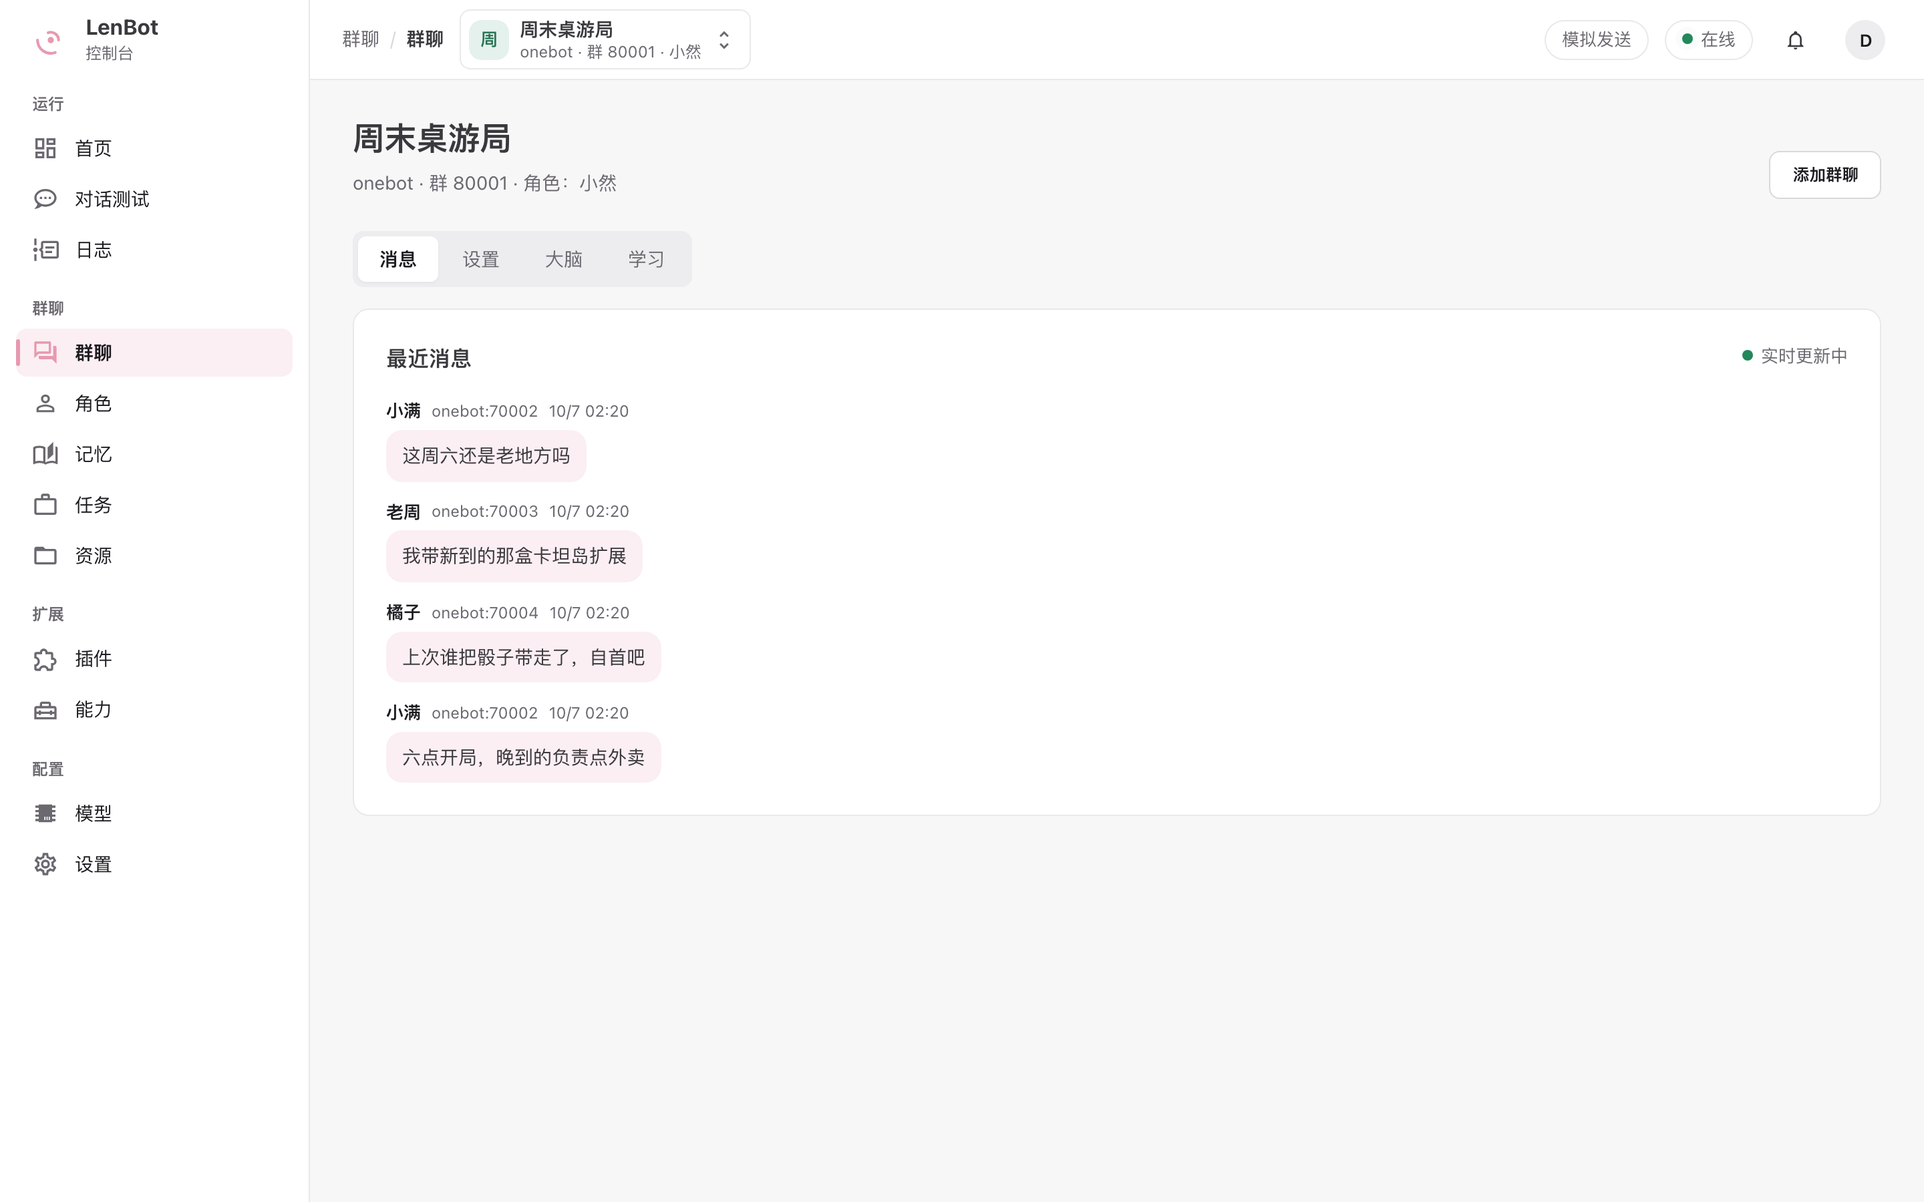
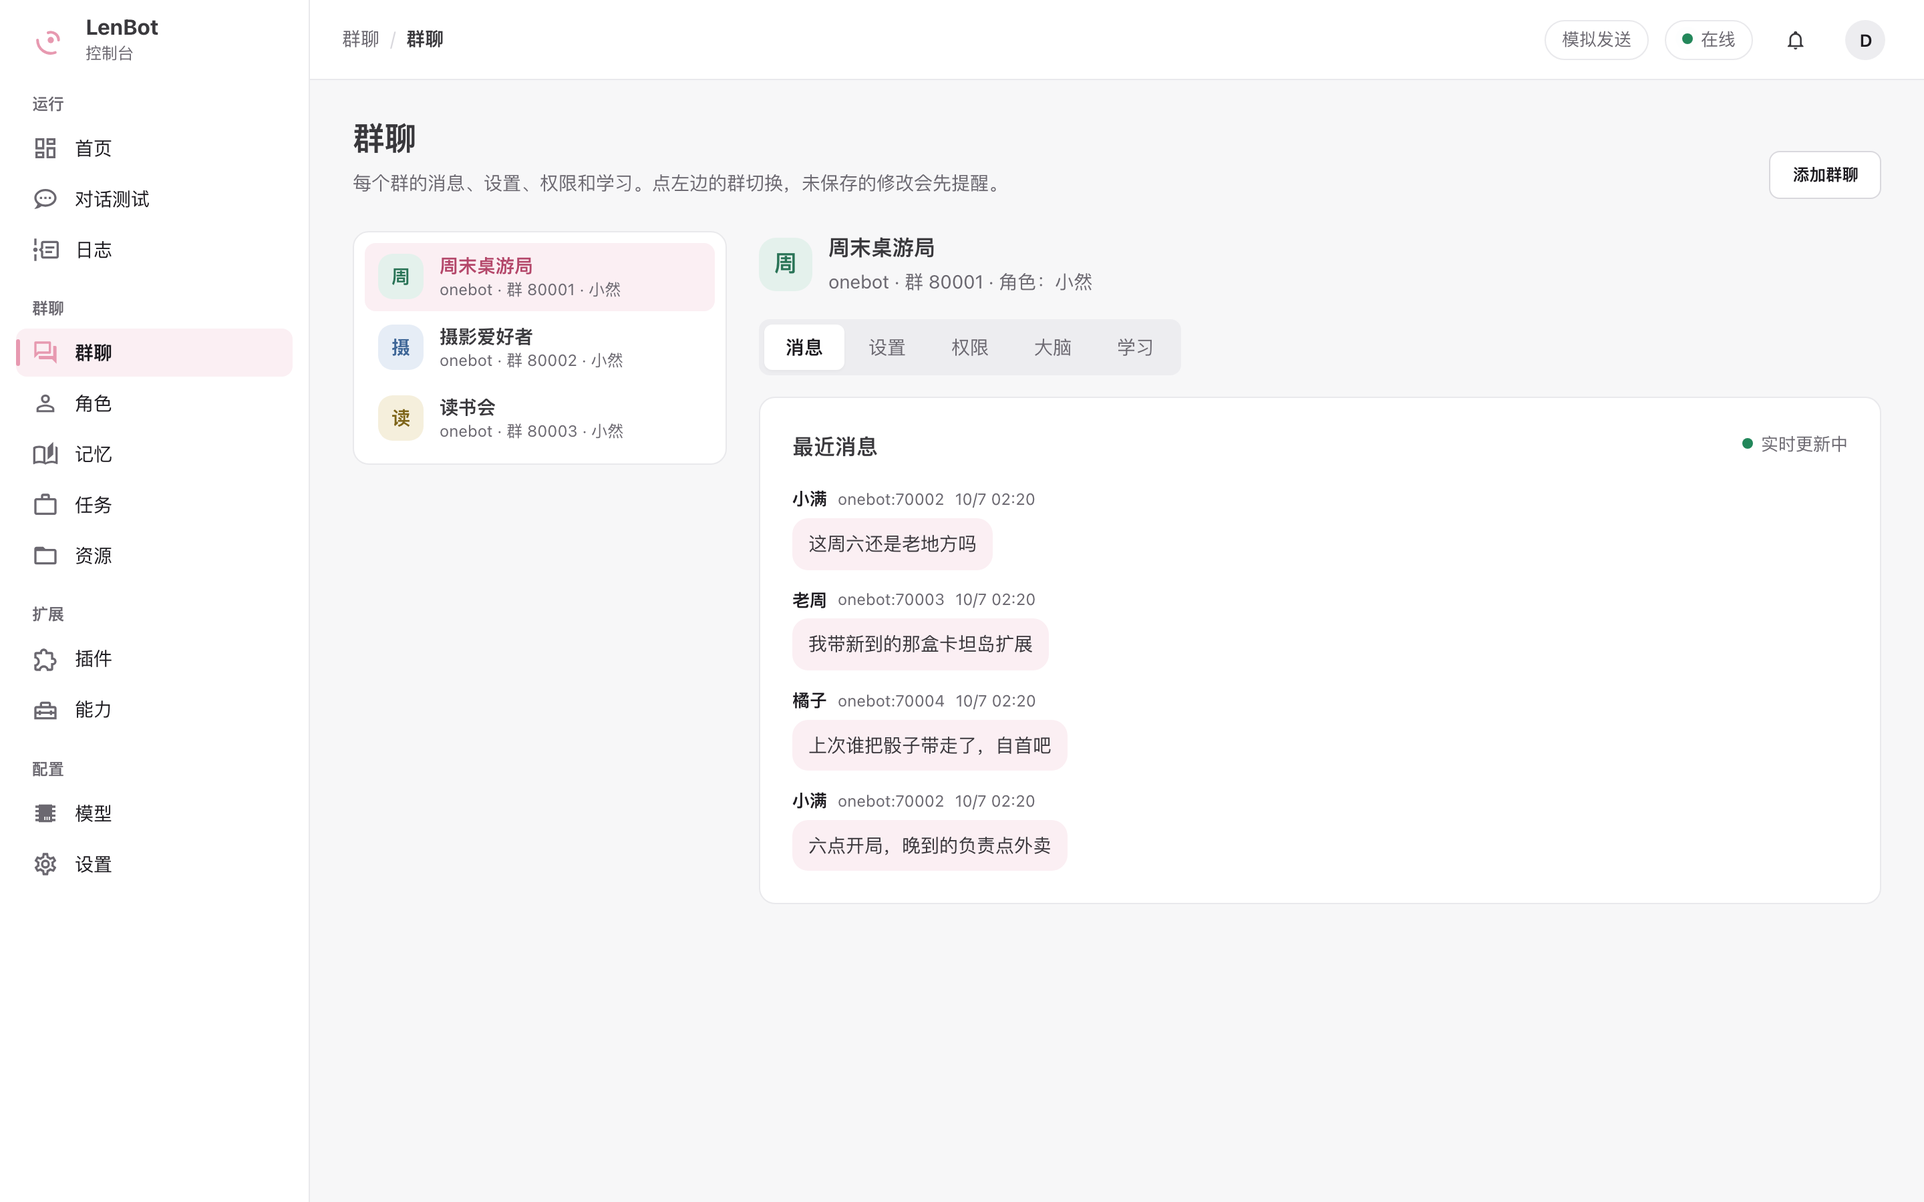
面板去掉顶栏选群：群聊改为左列表右详情，其余页面在页内切换
群聊页左侧列出所有群（名称、群号、角色、是否关闭），点击即切换，窄屏改为下拉选择；本群权限并入群聊页的「权限」标签，设置页不再有权限标签。
任务、资源、记忆、日志等按群显示的页面在标题下用一行群芯片切换；角色页和能力页的工具改为按角色切换，标出每个角色用在几个群，只有一个角色时不显示。顶栏的群选择器移除。
站点截图按新面板重新生成。

核对：807 项测试与前端生产构建；在演示实例里用浏览器查看 1440 与 900 宽度的群聊、任务和角色页。
未确认：数据类页面的「全部群」汇总需要后端跨群查询，本次未做；其余页面和长群名布局未逐一实测。

diff --git a/src/len_bot/web/frontend/src/host/pages/scenes/ScenesPage.vue b/src/len_bot/web/frontend/src/host/pages/scenes/ScenesPage.vue
@@ -1,9 +1,9 @@
 <script setup>
 import { computed, reactive, ref } from 'vue'
-import { useRoute } from 'vue-router'
+import { useRoute, useRouter } from 'vue-router'
 import { api, sceneName, sceneNumber } from '../../../api.js'
 import { useAction } from '../../../composables/useResource.js'
-import { useCurrentScene } from '../../../composables/useCurrentScene.js'
+import { sceneTarget, useCurrentScene } from '../../../composables/useCurrentScene.js'
 import { useUnsavedChanges } from '../../../composables/useUnsavedChanges.js'
 import { host, notify, readPendingRestart } from '../../store.js'
 import HostPage from '../../ui/HostPage.vue'
@@ -15,13 +15,17 @@ import MessagesTab from './MessagesTab.vue'
 import SettingsTab from './SettingsTab.vue'
 import BrainTab from './BrainTab.vue'
 import LearningTab from './LearningTab.vue'
+import PermissionsSection from '../settings/PermissionsSection.vue'
+import SceneAvatar from '../../ui/SceneAvatar.vue'
 
-const route = useRoute()
-const tabs = [['messages', '消息'], ['settings', '设置'], ['brain', '大脑'], ['learning', '学习']]
+const route = useRoute(), router = useRouter()
+const tabs = [['messages', '消息'], ['settings', '设置'], ['permissions', '权限'], ['brain', '大脑'], ['learning', '学习']]
 const { scene, current } = useCurrentScene()
 const tab = computed(() => tabs.some(([key]) => key === route.query.tab) ? route.query.tab : 'messages')
-const dirty = reactive({ settings: false, learning: false })
-useUnsavedChanges(computed(() => Object.values(dirty).some(Boolean)), { onDiscard: () => Object.assign(dirty, { settings: false, learning: false }) })
+const dirty = reactive({ settings: false, learning: false, permissions: false })
+useUnsavedChanges(computed(() => Object.values(dirty).some(Boolean)), { onDiscard: () => Object.assign(dirty, { settings: false, learning: false, permissions: false }) })
+const scenes = computed(() => host.state?.scenes || [])
+const open = value => router.push(sceneTarget(route, value))
 
 const adding = ref(false), kind = ref('group'), qq = ref(''), persona = ref('')
 const create = useAction()
@@ -39,16 +43,32 @@ async function addScene() {
 </script>
 
 <template>
-  <HostPage :title="scene ? sceneName(scene) : '群聊'" :description="current ? `${sceneNumber(scene)} · 角色：${current.persona.name}` : ''">
+  <HostPage title="群聊" description="每个群的消息、设置、权限和学习。点左边的群切换，未保存的修改会先提醒。" wide>
     <template #actions><v-btn variant="outlined" @click="adding = true">添加群聊</v-btn></template>
     <EmptyState v-if="host.state && !scene" text="还没有群聊"><v-btn color="primary" @click="adding = true">添加群聊</v-btn></EmptyState>
-    <template v-else-if="scene">
+    <div v-else-if="scene" class="scene-workbench">
+      <nav class="scene-rail" aria-label="群聊列表">
+        <button v-for="item in scenes" :key="item.scene" type="button" class="rail-item" :class="{ active: item.scene === scene }"
+          :aria-current="item.scene === scene ? 'page' : undefined" @click="open(item.scene)">
+          <SceneAvatar :scene="item.scene" :size="34" />
+          <span class="rail-text"><strong>{{ sceneName(item.scene) }}</strong>
+            <span>{{ sceneNumber(item.scene) }} · {{ item.persona.name }}<template v-if="!item.chat_enabled"> · 已关闭</template></span></span>
+        </button>
+      </nav>
+      <v-select class="scene-select" :model-value="scene" :items="scenes.map(item => ({ title: sceneName(item.scene), value: item.scene }))"
+        label="群聊" hide-details @update:model-value="open" />
+      <section class="scene-detail">
+      <header class="detail-head"><SceneAvatar :scene="scene" :size="40" />
+        <div><h2>{{ sceneName(scene) }}</h2><p class="muted">{{ sceneNumber(scene) }}<template v-if="current"> · 角色：{{ current.persona.name }}</template></p></div></header>
       <PageTabs :tabs="tabs" :model-value="tab" label="群聊内容" />
       <MessagesTab v-if="tab === 'messages'" :key="`m${scene}`" :scene="scene" />
       <SettingsTab v-else-if="tab === 'settings'" :key="`s${scene}`" :scene="scene" @dirty="value => dirty.settings = value" />
       <BrainTab v-else-if="tab === 'brain'" :key="`b${scene}`" :scene="scene" />
+      <PermissionsSection v-else-if="tab === 'permissions'" :key="`p${scene}`" :scene="scene"
+        @saved="() => { readPendingRestart(); notify('已保存') }" @dirty="value => dirty.permissions = value" />
       <LearningTab v-else-if="tab === 'learning'" :key="`l${scene}`" :scene="scene" @dirty="value => dirty.learning = value" />
-    </template>
+      </section>
+    </div>
 
     <FormDialog v-model="adding" title="添加群聊" :busy="create.busy.value">
       <v-btn-toggle v-model="kind" mandatory>
@@ -63,3 +83,27 @@ async function addScene() {
     </FormDialog>
   </HostPage>
 </template>
+
+<style scoped>
+.scene-workbench{display:grid;grid-template-columns:280px minmax(0,1fr);gap:var(--sp-5);align-items:start}
+.scene-rail{display:grid;gap:2px;position:sticky;top:calc(var(--top-height, 64px) + var(--sp-4));max-height:calc(100vh - 140px);overflow-y:auto;
+  padding:var(--sp-2);border:1px solid var(--line);border-radius:var(--radius-lg, 14px);background:var(--surface)}
+.rail-item{display:flex;align-items:center;gap:var(--sp-3);width:100%;padding:8px 10px;border:0;border-radius:var(--radius);background:none;
+  color:inherit;font:inherit;text-align:left;cursor:pointer;transition:background var(--dur-1)}
+.rail-item:hover{background:var(--hover)}
+.rail-item.active{background:var(--selected)}
+.rail-item.active strong{color:var(--primary)}
+.rail-text{display:grid;min-width:0;line-height:1.35}
+.rail-text strong,.rail-text span{overflow:hidden;text-overflow:ellipsis;white-space:nowrap}
+.rail-text span{font-size:var(--fs-xs);color:var(--muted)}
+.scene-detail{display:grid;gap:var(--sp-4);min-width:0}
+.detail-head{display:flex;align-items:center;gap:var(--sp-3)}
+.detail-head h2{margin:0;font-size:var(--fs-lg, 20px)}
+.detail-head p{margin:2px 0 0}
+.scene-select{display:none}
+@media (max-width: 960px){
+  .scene-workbench{grid-template-columns:minmax(0,1fr)}
+  .scene-rail{display:none}
+  .scene-select{display:block}
+}
+</style>

diff --git a/src/len_bot/web/frontend/src/host/ui/SceneSwitch.vue b/src/len_bot/web/frontend/src/host/ui/SceneSwitch.vue
@@ -1,0 +1,52 @@
+<script setup>
+// The in-page choice of group (or of role) for pages that show one at a time.
+// Groups are chips in one scrollable row; role mode lists each role once, with how many groups use it.
+import { computed } from 'vue'
+import { sceneName } from '../../api.js'
+import { host } from '../store.js'
+import SceneAvatar from './SceneAvatar.vue'
+const props = defineProps({ modelValue: { type: String, required: true }, mode: { type: String, default: 'scene' } })
+const emit = defineEmits(['update:modelValue'])
+const scenes = computed(() => host.state?.scenes || [])
+const current = computed(() => scenes.value.find(item => item.scene === props.modelValue))
+const roles = computed(() => {
+  const groups = new Map()
+  for (const item of scenes.value) {
+    if (!groups.has(item.persona_path)) groups.set(item.persona_path, { path: item.persona_path, name: item.persona.name, scenes: [] })
+    groups.get(item.persona_path).scenes.push(item.scene)
+  }
+  return [...groups.values()]
+})
+// One role has nothing to switch to.
+const visible = computed(() => props.mode !== 'role' || roles.value.length > 1)
+function pickRole(role) {
+  if (!role.scenes.includes(props.modelValue)) emit('update:modelValue', role.scenes[0])
+}
+</script>
+<template>
+  <div v-if="visible" class="scene-switch" role="tablist" :aria-label="mode === 'role' ? '选择角色' : '选择群聊'">
+    <template v-if="mode === 'role'">
+      <button v-for="role in roles" :key="role.path" type="button" role="tab" class="switch-chip"
+        :class="{ active: current?.persona_path === role.path }" :aria-selected="current?.persona_path === role.path"
+        :title="role.scenes.map(sceneName).join('、')" @click="pickRole(role)">
+        <strong>{{ role.name }}</strong><span>{{ role.scenes.length }} 个群</span>
+      </button>
+    </template>
+    <template v-else>
+      <button v-for="item in scenes" :key="item.scene" type="button" role="tab" class="switch-chip"
+        :class="{ active: item.scene === modelValue }" :aria-selected="item.scene === modelValue"
+        @click="emit('update:modelValue', item.scene)">
+        <SceneAvatar :scene="item.scene" :size="22" /><strong>{{ sceneName(item.scene) }}</strong>
+      </button>
+    </template>
+  </div>
+</template>
+<style scoped>
+.scene-switch{display:flex;gap:var(--sp-2);overflow-x:auto;padding:2px 2px 6px;margin-top:calc(-1 * var(--sp-2));scrollbar-width:thin}
+.switch-chip{display:inline-flex;align-items:center;gap:var(--sp-2);flex:none;max-width:260px;padding:6px 12px 6px 8px;border:1px solid var(--line);
+  border-radius:999px;background:var(--surface);color:inherit;font:inherit;cursor:pointer;transition:border-color var(--dur-1),background var(--dur-1)}
+.switch-chip:hover{border-color:var(--line-strong)}
+.switch-chip.active{border-color:var(--brand);background:var(--selected);color:var(--primary)}
+.switch-chip strong{font-weight:600;font-size:var(--fs-sm);overflow:hidden;text-overflow:ellipsis;white-space:nowrap}
+.switch-chip span{font-size:var(--fs-xs);color:var(--muted)}
+</style>

diff --git a/src/len_bot/web/frontend/src/host/pages/settings/SettingsPage.vue b/src/len_bot/web/frontend/src/host/pages/settings/SettingsPage.vue
@@ -4,7 +4,6 @@ import { useRoute } from 'vue-router'
 import { api } from '../../../api.js'
 import { useResource } from '../../../composables/useResource.js'
 import { useUnsavedChanges } from '../../../composables/useUnsavedChanges.js'
-import { useCurrentScene } from '../../../composables/useCurrentScene.js'
 import { developerMode } from '../../../composables/useDeveloperMode.js'
 import { notify, readPendingRestart } from '../../store.js'
 import HostPage from '../../ui/HostPage.vue'
@@ -13,15 +12,13 @@ import Panel from '../../ui/Panel.vue'
 import ResourceState from '../../ui/ResourceState.vue'
 import ConnectionSection from './ConnectionSection.vue'
 import AccountSection from './AccountSection.vue'
-import PermissionsSection from './PermissionsSection.vue'
 import RetentionSection from './RetentionSection.vue'
 import ProcessingSection from './ProcessingSection.vue'
 import UpdatesSection from './UpdatesSection.vue'
 
 const route = useRoute()
-const tabs = [['connection', '连接'], ['account', '面板账号'], ['permissions', '权限'], ['retention', '数据保留'], ['updates', '版本与更新'], ['advanced', '高级']]
+const tabs = [['connection', '连接'], ['account', '面板账号'], ['retention', '数据保留'], ['updates', '版本与更新'], ['advanced', '高级']]
 const tab = computed(() => tabs.some(([key]) => key === route.query.tab) ? route.query.tab : 'connection')
-const { scene } = useCurrentScene()
 const settings = useResource(() => api('/api/host/settings'))
 const dirty = reactive({})
 useUnsavedChanges(computed(() => Object.values(dirty).some(Boolean)), { onDiscard: () => { for (const key of Object.keys(dirty)) dirty[key] = false } })
@@ -39,7 +36,6 @@ function saved(value) {
     <ResourceState :resource="settings" error-title="读取设置失败" v-slot="{ data }">
       <ConnectionSection v-if="tab === 'connection'" :snapshot="data" @saved="saved" @dirty="value => dirty.connection = value" />
       <AccountSection v-else-if="tab === 'account'" :snapshot="data" @saved="saved" @dirty="value => dirty.account = value" />
-      <PermissionsSection v-else-if="tab === 'permissions' && scene" :key="scene" :scene="scene" @saved="saved" @dirty="value => dirty.permissions = value" />
       <RetentionSection v-else-if="tab === 'retention'" :snapshot="data" @saved="saved" @dirty="value => dirty.retention = value" />
       <UpdatesSection v-else-if="tab === 'updates'" />
       <template v-else-if="tab === 'advanced'">

diff --git a/src/len_bot/web/frontend/src/layouts/HostShell.vue b/src/len_bot/web/frontend/src/layouts/HostShell.vue
@@ -7,7 +7,7 @@ import { mdiViewDashboardOutline, mdiChatProcessingOutline, mdiForumOutline, mdi
   mdiPuzzleOutline, mdiBellOutline } from '@mdi/js'
 import { logout, useAuth } from '../composables/useAuth.js'
 import { confirm } from '../composables/useConfirm.js'
-import { sceneTarget, showsScene, useCurrentScene } from '../composables/useCurrentScene.js'
+import { useCurrentScene } from '../composables/useCurrentScene.js'
 import { host, readHostState, readOverview, readPendingRestart, readSceneTitles } from '../host/store.js'
 import { attentionItems } from '../host/attention.js'
 import { sectionLabel } from '../host/labels.js'
@@ -15,7 +15,6 @@ import { sceneName, sceneTitles } from '../api.js'
 import { hostAreas, hostGroups, hostTarget } from '../router/hostNavigation.js'
 import ErrorNote from '../host/ui/ErrorNote.vue'
 import StatusBadge from '../host/ui/StatusBadge.vue'
-import ScenePicker from '../host/ui/ScenePicker.vue'
 import ConfirmHost from '../host/ui/ConfirmHost.vue'
 import RestartDialog from '../host/components/RestartDialog.vue'
 import { restartFlow, openRestart } from '../host/restart.js'
@@ -29,7 +28,6 @@ const icons = { home: mdiViewDashboardOutline, trial: mdiChatProcessingOutline, 
 const area = computed(() => hostAreas.find(item => item.pages.includes(route.name)))
 const group = computed(() => hostGroups.find(item => item.areas.includes(area.value)))
 const { scene } = useCurrentScene()
-const scenePicker = computed(() => showsScene(route) && (host.state?.scenes.length || 0) > 0)
 const status = computed(() => {
   const state = host.state
   if (!state) return { text: host.stateError ? '状态读取失败' : '读取中', tone: host.stateError ? 'error' : 'neutral' }
@@ -93,7 +91,6 @@ async function exit() {
         <span v-if="group" class="muted">{{ group.title }}</span><span v-if="group" class="sep">/</span>
         <strong>{{ area?.title || route.meta.title }}</strong>
       </nav>
-      <ScenePicker v-if="scenePicker" :model-value="scene" @update:model-value="value => router.push(sceneTarget(route, value))" />
       <v-spacer />
       <span v-if="host.state?.delivery === 'simulated'" class="shell-pill muted">模拟发送</span>
       <span class="shell-pill"><StatusBadge dot :pulse="status.tone === 'success'" :kind="status.kind" :value="status.value" :text="status.text" :tone="status.tone" /></span>

diff --git a/src/len_bot/web/frontend/src/router/index.js b/src/len_bot/web/frontend/src/router/index.js
@@ -19,7 +19,7 @@ const router = createRouter({
     {path:'/',redirect:{name:'host-overview'}},
     { path:'/host/chat-test', name:'host-trials', component:()=>import('../host/pages/trial/TrialPage.vue'), meta:{title:'对话测试'} },
     { path:'/host/logs', name:'host-logs', component:()=>import('../host/pages/logs/LogsPage.vue'), meta:{title:'日志',scene:route=>route.query.tab!=='system'} },
-    { path:'/host/scenes', name:'host-scenes', component:()=>import('../host/pages/scenes/ScenesPage.vue'), meta:{title:'群聊',scene:true} },
+    { path:'/host/scenes', name:'host-scenes', component:()=>import('../host/pages/scenes/ScenesPage.vue'), meta:{title:'群聊',scene:true,sceneSwitch:false} },
     {
       path:'/host/tasks',
       name:'host-tasks',
@@ -43,7 +43,7 @@ const router = createRouter({
       path:'/host/capabilities',
       name:'host-capabilities',
       component:()=>import('../host/pages/capabilities/CapabilitiesPage.vue'),
-      meta:{title:'能力',scene:route=>['tools',undefined].includes(route.query.tab)}
+      meta:{title:'能力',scene:route=>['tools',undefined].includes(route.query.tab),sceneMode:'role'}
     },
     {
       path:'/host/plugins',
@@ -61,13 +61,13 @@ const router = createRouter({
       path:'/host/system',
       name:'host-system',
       component:()=>import('../host/pages/settings/SettingsPage.vue'),
-      meta:{title:'设置',scene:route=>route.query.tab==='permissions'}
+      meta:{title:'设置'}
     },
     {
       path:'/host/persona',
       name:'host-persona',
       component:()=>import('../host/pages/persona/PersonaPage.vue'),
-      meta:{title:'角色',scene:true}
+      meta:{title:'角色',scene:true,sceneMode:'role'}
     },
     {
       path:'/login',

diff --git a/src/len_bot/web/frontend/src/host/ui/HostPage.vue b/src/len_bot/web/frontend/src/host/ui/HostPage.vue
@@ -1,7 +1,17 @@
 <script setup>
 // Page frame: title, one-line description, page actions. Workbench pages
-// (list beside detail) use `wide`.
+// (list beside detail) use `wide`. Pages that show one group (or role) at a time
+// get the in-page switch under the title, from the route's `scene` rule.
+import { computed } from 'vue'
+import { useRoute, useRouter } from 'vue-router'
+import { sceneTarget, showsScene, useCurrentScene } from '../../composables/useCurrentScene.js'
+import { host } from '../store.js'
+import SceneSwitch from './SceneSwitch.vue'
 defineProps({ title: { type: String, required: true }, description: { type: String, default: '' }, wide: Boolean })
+const route = useRoute(), router = useRouter()
+const { scene } = useCurrentScene()
+const switching = computed(() => showsScene(route) && route.meta.sceneSwitch !== false && Boolean(scene.value)
+  && (host.state?.scenes.length || 0) > 1)
 </script>
 <template>
   <div class="host-page" :class="{ wide }">
@@ -9,6 +19,8 @@ defineProps({ title: { type: String, required: true }, description: { type: Stri
       <div class="host-page-title"><h1>{{ title }}</h1><p v-if="description" class="muted">{{ description }}</p></div>
       <div v-if="$slots.actions" class="host-page-actions"><slot name="actions" /></div>
     </header>
+    <SceneSwitch v-if="switching" :model-value="scene" :mode="route.meta.sceneMode || 'scene'"
+      @update:model-value="value => router.push(sceneTarget(route, value))" />
     <slot />
   </div>
 </template>

diff --git a/src/len_bot/web/frontend/src/host/pages/settings/PermissionsSection.vue b/src/len_bot/web/frontend/src/host/pages/settings/PermissionsSection.vue
@@ -1,6 +1,6 @@
 <script setup>
 import { computed, ref, watch } from 'vue'
-import { api, sceneName } from '../../../api.js'
+import { api } from '../../../api.js'
 import { useAction, useResource } from '../../../composables/useResource.js'
 import { roleOptions } from '../../labels.js'
 import { clone, same } from '../../forms.js'
@@ -37,7 +37,7 @@ async function submit() {
 
 <template>
   <ResourceState :resource="permissions" error-title="读取权限失败">
-    <SettingSection v-if="draft" :title="`权限 · ${sceneName(scene)}`" description="本群名单和谁可以做什么只对这个群生效，在顶栏切换群。"
+    <SettingSection v-if="draft" title="权限" description="上半部分的名单所有群通用；本群名单和谁可以做什么只对这个群生效。"
       :dirty="dirty" :saving="save.busy.value" :error="save.error.value" @save="submit">
       <p>主人：<strong>{{ permissions.data.value.owners.length ? permissions.data.value.owners.join('、') : '未设置' }}</strong>，在连接设置里修改。主人拥有全部权限。</p>
       <h3>所有群通用的名单</h3>
